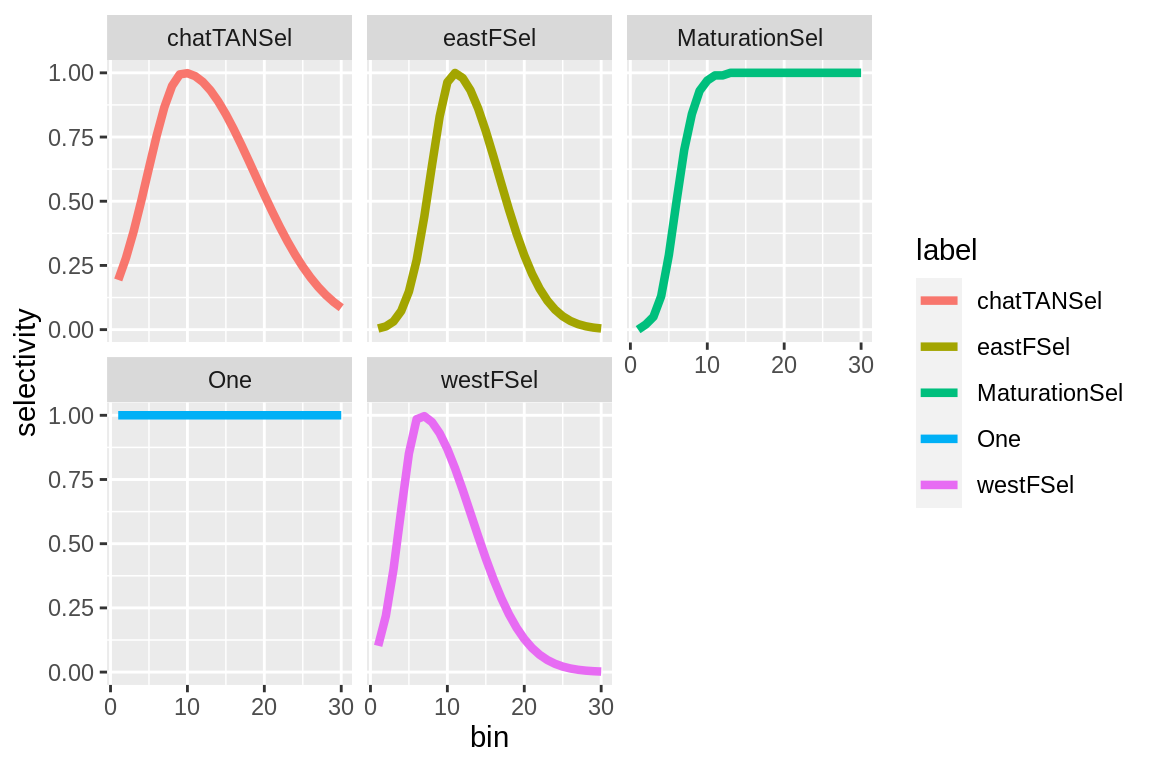
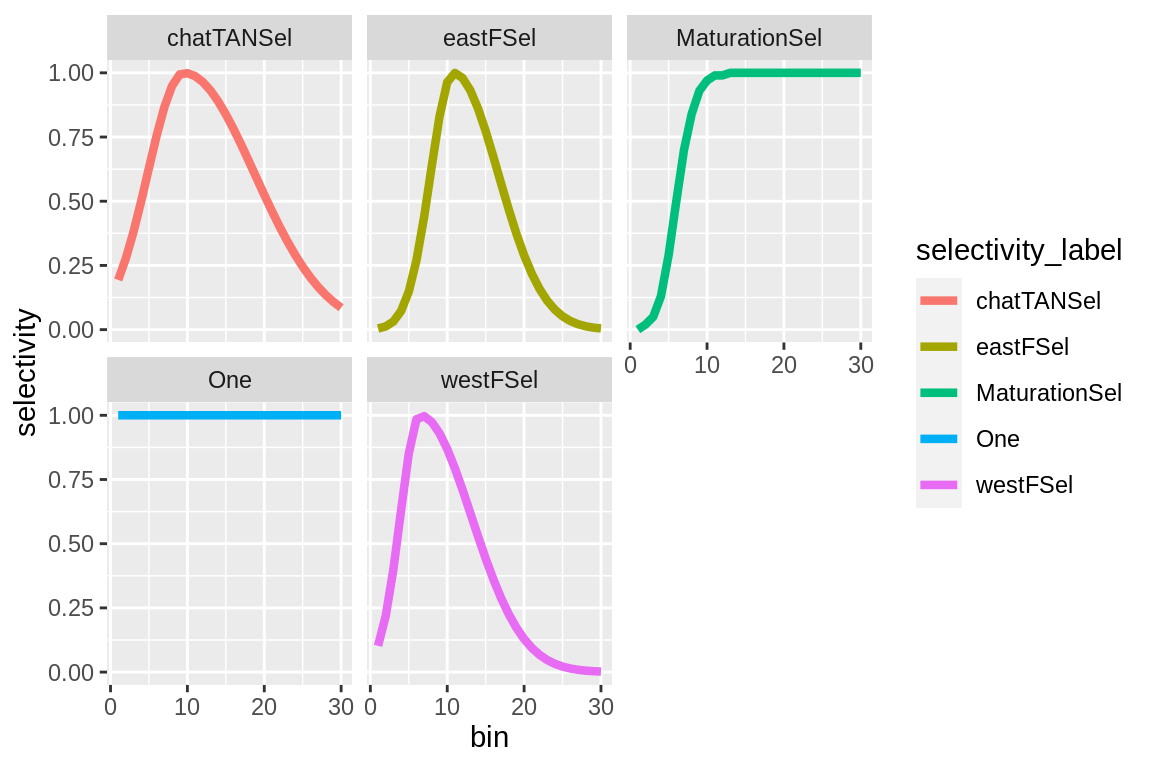
Craig44 published a site update

diff --git a/mpd-summaries.html b/mpd-summaries.html
@@ -464,9 +464,9 @@ Flexibility using standard ggplot functions</p>
 <div id="plotting-selectivities" class="section level4 hasAnchor" number="4.1.3.1">
 <h4><span class="header-section-number">4.1.3.1</span> Plotting selectivities<a href="mpd-summaries.html#plotting-selectivities" class="anchor-section" aria-label="Anchor link to header"></a></h4>
 <div class="sourceCode" id="cb20"><pre class="sourceCode r"><code class="sourceCode r"><span id="cb20-1"><a href="mpd-summaries.html#cb20-1" aria-hidden="true" tabindex="-1"></a>selectivity_df <span class="ot">=</span> <span class="fu">get_selectivities</span>(<span class="at">model =</span> mpd)</span>
-<span id="cb20-2"><a href="mpd-summaries.html#cb20-2" aria-hidden="true" tabindex="-1"></a><span class="fu">ggplot</span>(selectivity_df, <span class="fu">aes</span>(<span class="at">x =</span> bin, <span class="at">y =</span> selectivity, <span class="at">col =</span> label)) <span class="sc">+</span></span>
+<span id="cb20-2"><a href="mpd-summaries.html#cb20-2" aria-hidden="true" tabindex="-1"></a><span class="fu">ggplot</span>(selectivity_df, <span class="fu">aes</span>(<span class="at">x =</span> bin, <span class="at">y =</span> selectivity, <span class="at">col =</span> selectivity_label)) <span class="sc">+</span></span>
 <span id="cb20-3"><a href="mpd-summaries.html#cb20-3" aria-hidden="true" tabindex="-1"></a>  <span class="fu">geom_line</span>(<span class="at">size =</span> <span class="fl">1.5</span>) <span class="sc">+</span></span>
-<span id="cb20-4"><a href="mpd-summaries.html#cb20-4" aria-hidden="true" tabindex="-1"></a>  <span class="fu">facet_wrap</span>(<span class="sc">~</span>label)</span></code></pre></div>
+<span id="cb20-4"><a href="mpd-summaries.html#cb20-4" aria-hidden="true" tabindex="-1"></a>  <span class="fu">facet_wrap</span>(<span class="sc">~</span>selectivity_label)</span></code></pre></div>
 <p><img src="_main_files/figure-html/selectivities_mpd-1.png" width="576" /></p>
 </div>
 </div>
@@ -618,9 +618,9 @@ Flexibility using standard ggplot functions</p>
 <h3>Plotting selectivities<a href="mpd-summaries.html#plotting-selectivities-1" class="anchor-section" aria-label="Anchor link to header"></a></h3>
 <div class="sourceCode" id="cb33"><pre class="sourceCode r"><code class="sourceCode r"><span id="cb33-1"><a href="mpd-summaries.html#cb33-1" aria-hidden="true" tabindex="-1"></a>selectivity_df <span class="ot">=</span> <span class="fu">get_selectivities</span>(mpd)</span>
 <span id="cb33-2"><a href="mpd-summaries.html#cb33-2" aria-hidden="true" tabindex="-1"></a>selectivity_df<span class="sc">$</span>par_set <span class="ot">=</span> <span class="fu">factor</span>(selectivity_df<span class="sc">$</span>par_set, <span class="at">ordered =</span> T)</span>
-<span id="cb33-3"><a href="mpd-summaries.html#cb33-3" aria-hidden="true" tabindex="-1"></a><span class="fu">ggplot</span>(selectivity_df, <span class="fu">aes</span>(<span class="at">x =</span> bin, <span class="at">y =</span> selectivity, <span class="at">col =</span> report_label, <span class="at">line_type =</span> par_set)) <span class="sc">+</span></span>
+<span id="cb33-3"><a href="mpd-summaries.html#cb33-3" aria-hidden="true" tabindex="-1"></a><span class="fu">ggplot</span>(selectivity_df, <span class="fu">aes</span>(<span class="at">x =</span> bin, <span class="at">y =</span> selectivity, <span class="at">col =</span> selectivity_label, <span class="at">line_type =</span> par_set)) <span class="sc">+</span></span>
 <span id="cb33-4"><a href="mpd-summaries.html#cb33-4" aria-hidden="true" tabindex="-1"></a>  <span class="fu">geom_line</span>(<span class="at">size =</span> <span class="fl">1.5</span>) <span class="sc">+</span></span>
-<span id="cb33-5"><a href="mpd-summaries.html#cb33-5" aria-hidden="true" tabindex="-1"></a>  <span class="fu">facet_grid</span>(par_set<span class="sc">~</span>report_label)</span></code></pre></div>
+<span id="cb33-5"><a href="mpd-summaries.html#cb33-5" aria-hidden="true" tabindex="-1"></a>  <span class="fu">facet_grid</span>(par_set <span class="sc">~</span> selectivity_label)</span></code></pre></div>
 <p><img src="_main_files/figure-html/selectivities_multi-1.png" width="768" /></p>
 </div>
 <div id="plotting-fits-1" class="section level3 unnumbered hasAnchor">

diff --git a/summarisemultipleinputs.html b/summarisemultipleinputs.html
@@ -256,7 +256,7 @@ div.csl-indent {
 <div class="sourceCode" id="cb36"><pre class="sourceCode r"><code class="sourceCode r"><span id="cb36-1"><a href="summarisemultipleinputs.html#cb36-1" aria-hidden="true" tabindex="-1"></a>selectivity_df <span class="ot">=</span> <span class="fu">get_selectivities</span>(models)</span>
 <span id="cb36-2"><a href="summarisemultipleinputs.html#cb36-2" aria-hidden="true" tabindex="-1"></a><span class="fu">ggplot</span>(selectivity_df, <span class="fu">aes</span>(<span class="at">x =</span> bin, <span class="at">y =</span> selectivity, <span class="at">col =</span> model_label, <span class="at">linetype =</span> model_label)) <span class="sc">+</span></span>
 <span id="cb36-3"><a href="summarisemultipleinputs.html#cb36-3" aria-hidden="true" tabindex="-1"></a>  <span class="fu">geom_line</span>(<span class="at">size =</span> <span class="fl">1.5</span>) <span class="sc">+</span></span>
-<span id="cb36-4"><a href="summarisemultipleinputs.html#cb36-4" aria-hidden="true" tabindex="-1"></a>  <span class="fu">facet_wrap</span>(<span class="sc">~</span>label) <span class="sc">+</span></span>
+<span id="cb36-4"><a href="summarisemultipleinputs.html#cb36-4" aria-hidden="true" tabindex="-1"></a>  <span class="fu">facet_wrap</span>(<span class="sc">~</span>selectivity_label) <span class="sc">+</span></span>
 <span id="cb36-5"><a href="summarisemultipleinputs.html#cb36-5" aria-hidden="true" tabindex="-1"></a>  <span class="fu">labs</span>(<span class="at">x =</span> <span class="st">&quot;Age&quot;</span>, <span class="at">y =</span> <span class="st">&quot;Ogive&quot;</span>, <span class="at">col =</span> <span class="st">&quot;Model&quot;</span>, <span class="at">linetype =</span> <span class="st">&quot;Model&quot;</span>)</span></code></pre></div>
 <p><img src="_main_files/figure-html/compare_selectivities-1.png" width="576" /></p>
 </div>
